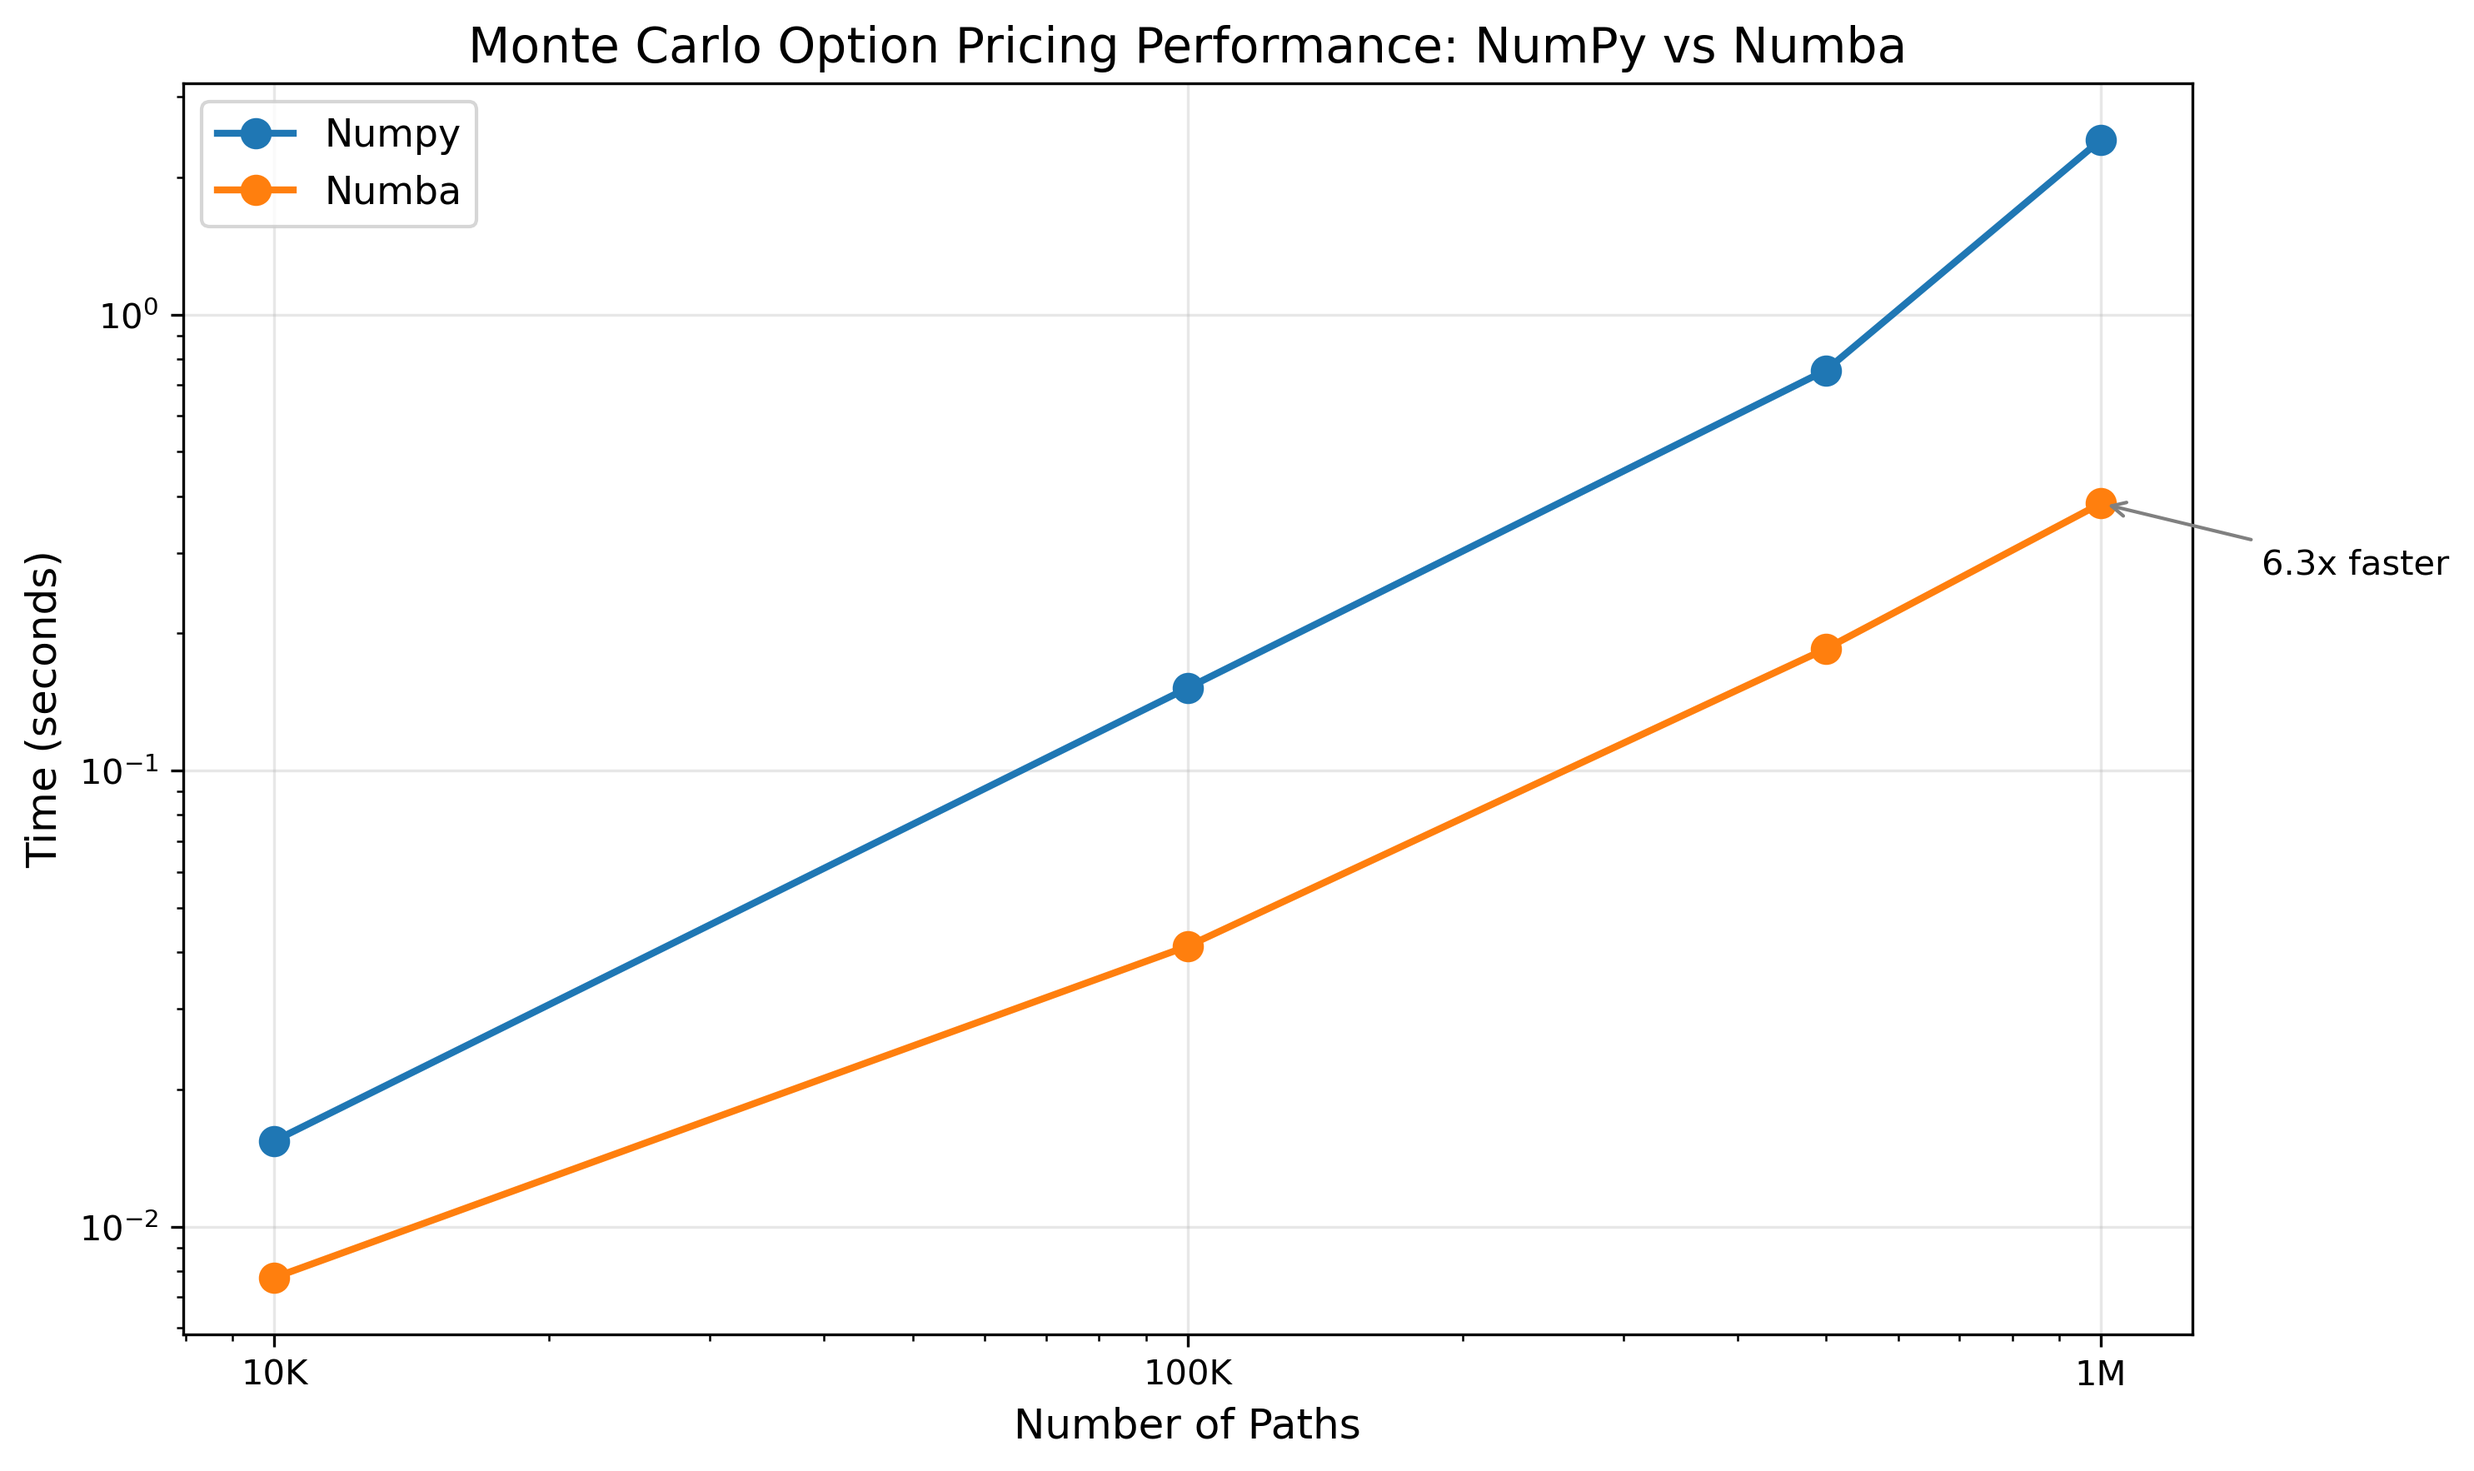
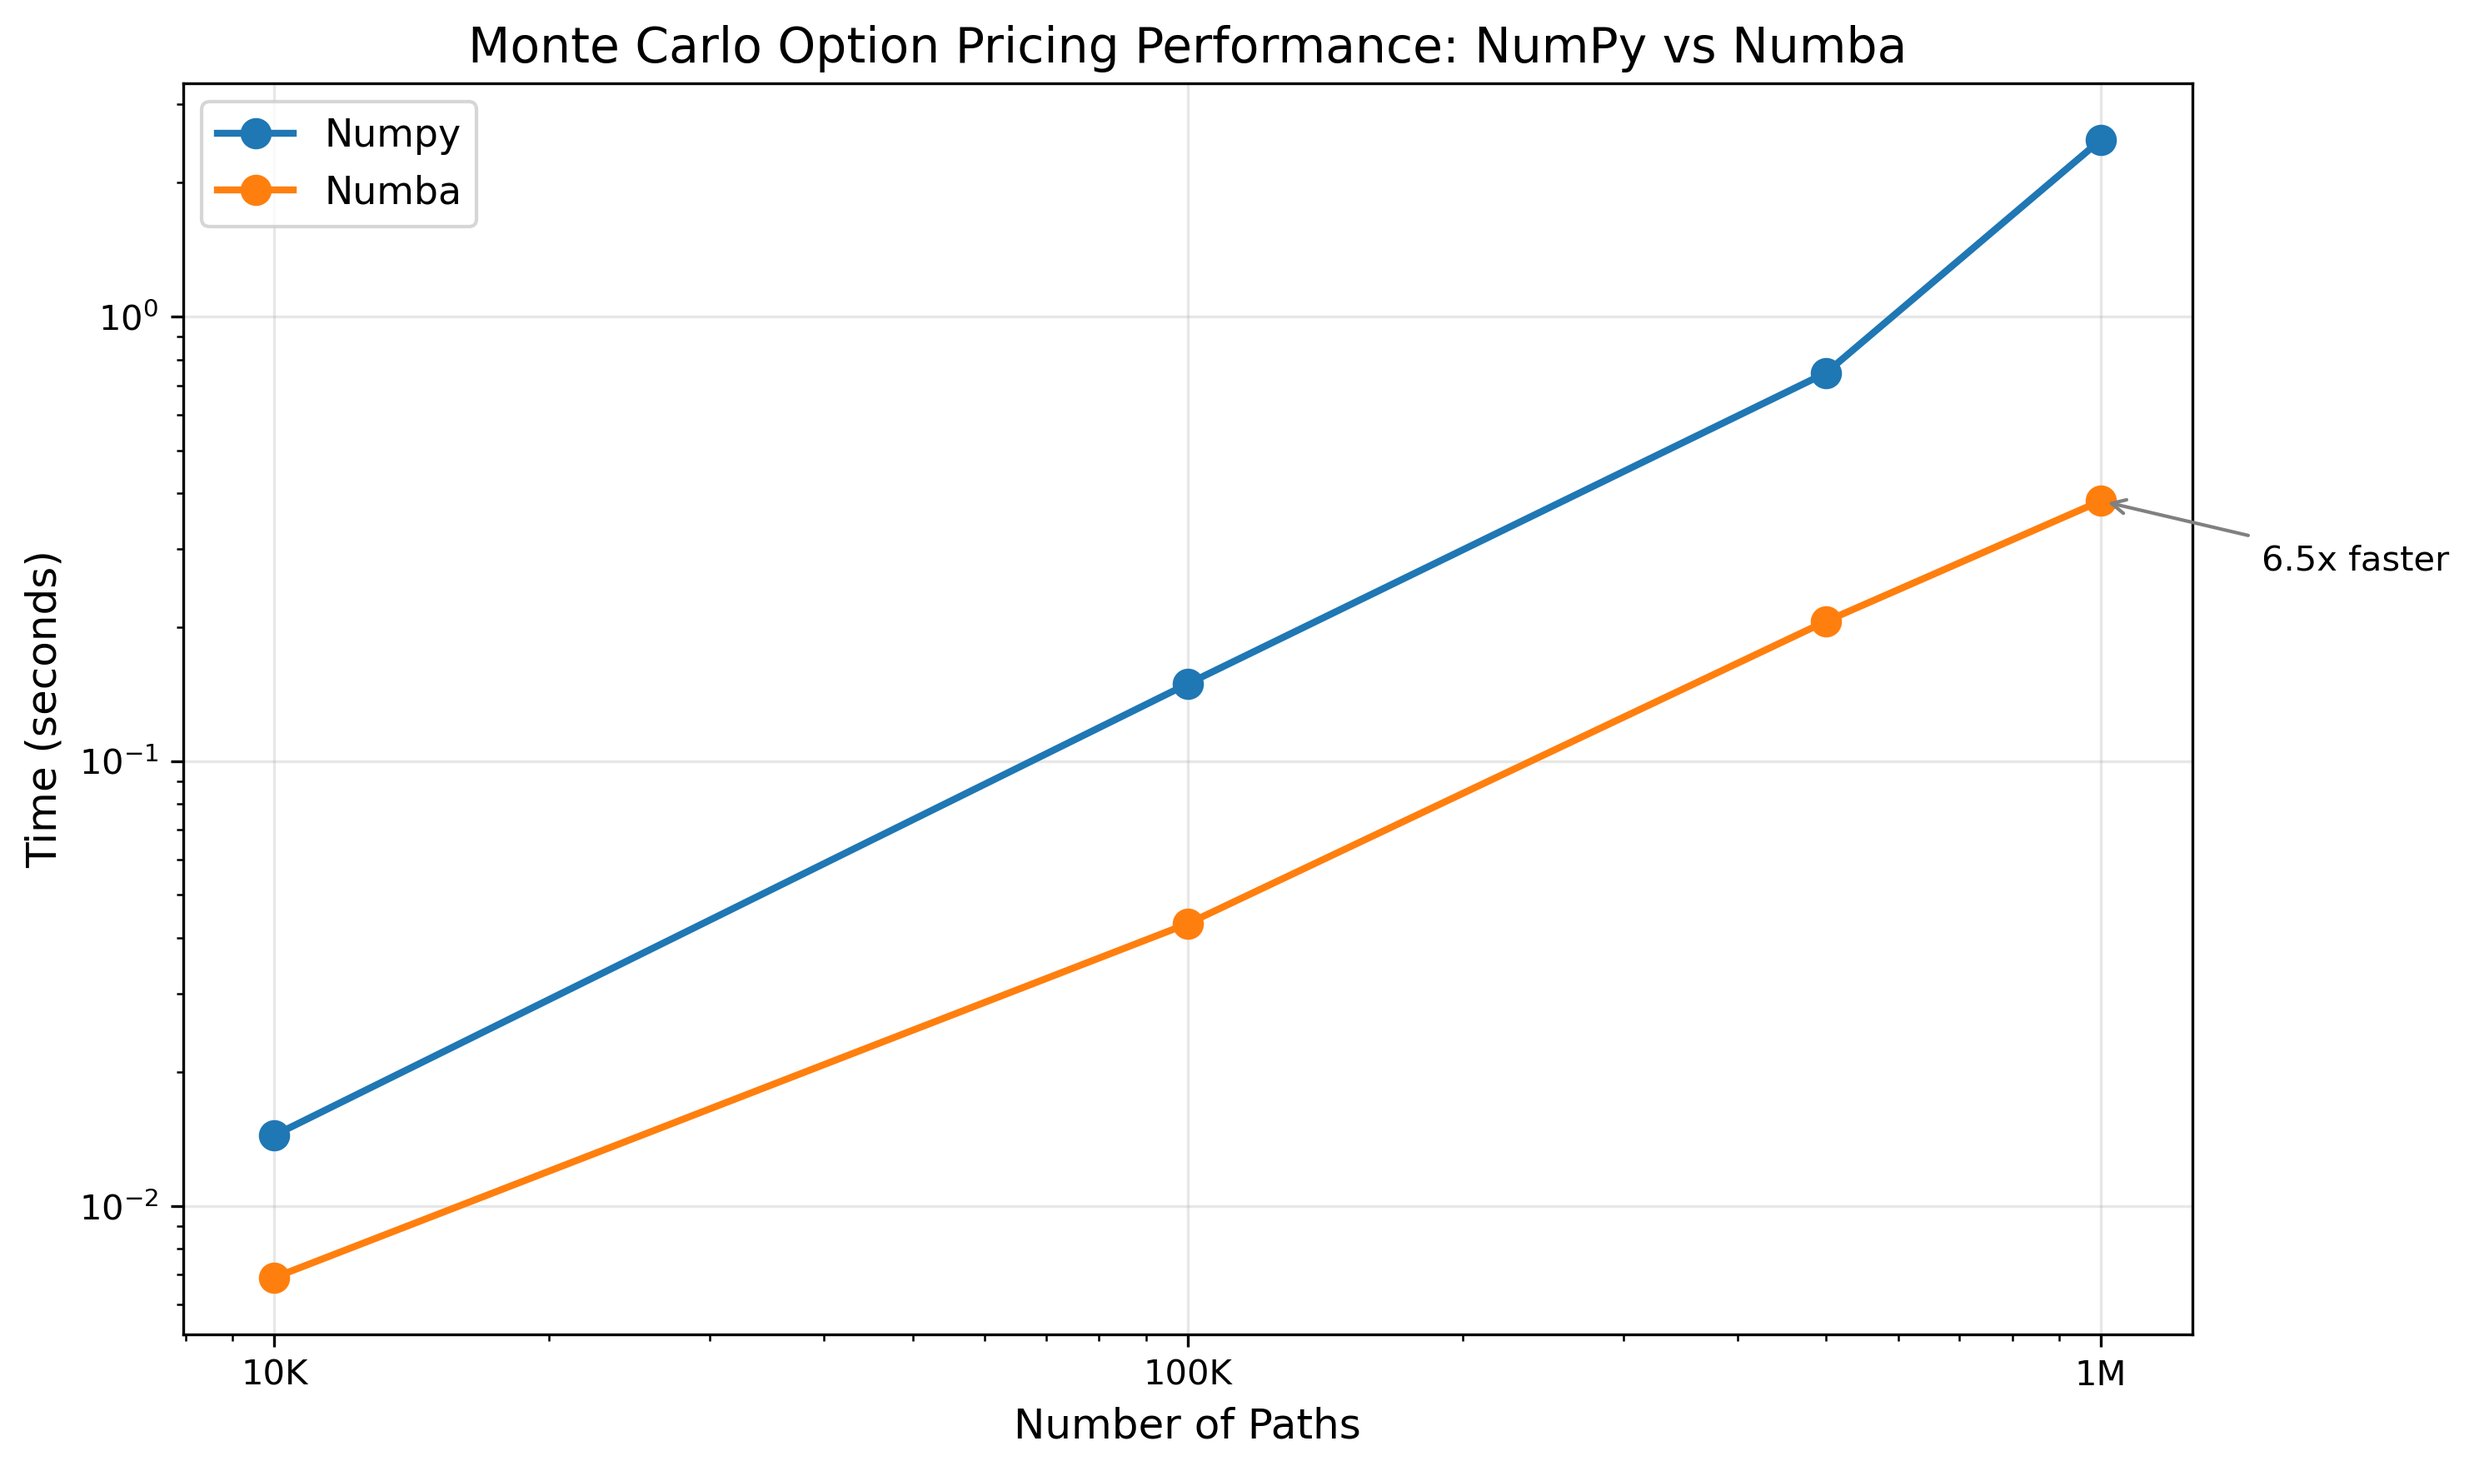
chore: Final v0.3.1 cleanup and improvements
- Update pyproject.toml version to 0.3.1 to match git tags
- Add comprehensive CHANGELOG entries for v0.3.0 and v0.3.1
- Add pytest configuration to fix slow marker warnings
- All tests pass, code quality checks pass
- All CLI scripts work correctly
- Frontier plots show 4 points with dotted lines
- CI workflow uses correct defaults

diff --git a/examples/quickstart.py b/examples/quickstart.py
@@ -16,15 +16,18 @@ from pathlib import Path
 # Add src to path for imports
 sys.path.insert(0, os.path.join(os.path.dirname(__file__), ".."))
 
+
 def run_command(cmd, description):
     """Run a command and print its output."""
     print(f"\n{'='*60}")
     print(f"Running: {description}")
     print(f"Command: {cmd}")
-    print('='*60)
-    
+    print("=" * 60)
+
     try:
-        result = subprocess.run(cmd, shell=True, capture_output=True, text=True, cwd="..")
+        result = subprocess.run(
+            cmd, shell=True, capture_output=True, text=True, cwd=".."
+        )
         print(result.stdout)
         if result.stderr:
             print("STDERR:", result.stderr)
@@ -33,67 +36,68 @@ def run_command(cmd, description):
         print(f"Error running command: {e}")
         return False
 
+
 def test_iv_roundtrip():
     """Test IV solver with round-trip validation."""
     print(f"\n{'='*60}")
     print("Testing Implied Volatility Round-Trip")
-    print('='*60)
-    
+    print("=" * 60)
+
     try:
         from src.quant.pricing import bs_price
         from src.quant.iv import implied_vol_bs
-        
+
         # Test parameters
         S, K, T, r, sigma_true = 100.0, 100.0, 0.5, 0.02, 0.25
-        
+
         # Step 1: Compute BS price
         price = bs_price(S, K, T, r, sigma_true, "call")
         print(f"Original BS price: {price:.6f}")
-        
+
         # Step 2: Solve for implied volatility
         sigma_implied = implied_vol_bs(price, S, K, T, r, "call")
         print(f"Implied volatility: {sigma_implied:.6f}")
         print(f"True volatility:   {sigma_true:.6f}")
         print(f"IV error:          {abs(sigma_implied - sigma_true):.2e}")
-        
+
         # Step 3: Round-trip: recompute price from IV
         price_roundtrip = bs_price(S, K, T, r, sigma_implied, "call")
         print(f"Round-trip price:  {price_roundtrip:.6f}")
         print(f"Price error:       {abs(price_roundtrip - price):.2e}")
-        
+
         return True
     except Exception as e:
         print(f"Error in IV round-trip test: {e}")
         return False
 
+
 def main():
     """Run the quickstart demo."""
     print("🚀 Quant-Option-Pricer Quickstart Demo")
     print("=" * 60)
-    
+
     # Ensure we're in the right directory
     os.chdir(os.path.dirname(__file__))
-    
+
     # 1. Delta Hedging Demo
     success1 = run_command(
         "python scripts/run_hedge.py --S0 100 --K 100 --T 0.25 --r 0.01 --sigma 0.2 --n-paths 5000 --rebalance-every 1 --fee-bps 1.0",
-        "Delta Hedging P&L Simulation"
+        "Delta Hedging P&L Simulation",
     )
-    
+
     # 2. IV Round-Trip Test
     success2 = test_iv_roundtrip()
-    
+
     # 3. IV Surface Generation
     success3 = run_command(
-        "python scripts/calibrate_surface.py",
-        "IV Surface Generation"
+        "python scripts/calibrate_surface.py", "IV Surface Generation"
     )
-    
+
     # Summary
     print(f"\n{'='*60}")
     print("📊 DEMO SUMMARY")
-    print('='*60)
-    
+    print("=" * 60)
+
     artifacts = []
     if success1 and Path("../plots/hedge_pnl.png").exists():
         artifacts.append("✅ plots/hedge_pnl.png")
@@ -101,19 +105,20 @@ def main():
         artifacts.append("✅ plots/iv_surface.png")
     if Path("../benchmarks/benchmarks.csv").exists():
         artifacts.append("✅ benchmarks/benchmarks.csv")
-    
+
     print("Generated artifacts:")
     for artifact in artifacts:
         print(f"  {artifact}")
-    
+
     print(f"\nDelta Hedging: {'✅' if success1 else '❌'}")
     print(f"IV Round-Trip: {'✅' if success2 else '❌'}")
     print(f"IV Surface:    {'✅' if success3 else '❌'}")
-    
+
     if all([success1, success2, success3]):
         print("\n🎉 All demos completed successfully!")
     else:
         print("\n⚠  Some demos failed. Check the output above.")
+
 
 if __name__ == "__main__":
     main()

diff --git a/scripts/run_hedge.py b/scripts/run_hedge.py
@@ -272,7 +272,7 @@ def plot_frontier_scatter(all_results, args, plots_dir):
     plt.scatter(te_values, cost_values, s=100, alpha=0.7, edgecolors="black")
 
     # Add dotted line connecting the points
-    plt.plot(te_values, cost_values, '--', alpha=0.5, color='gray', linewidth=1)
+    plt.plot(te_values, cost_values, "--", alpha=0.5, color="gray", linewidth=1)
 
     # Annotate points with Δt values
     for i, (te, cost, dt) in enumerate(zip(te_values, cost_values, dt_labels)):

diff --git a/CHANGELOG.md b/CHANGELOG.md
@@ -5,6 +5,34 @@ All notable changes to this project will be documented in this file.
 The format is based on [Keep a Changelog](https://keepachangelog.com/en/1.0.0/),
 and this project adheres to [Semantic Versioning](https://semver.org/spec/v2.0.0.html).
 
+## [0.3.1] - 2025-08-16
+
+### Added
+- Dotted line connecting frontier points for better cost-error trade-off visualization
+- Enhanced frontier plot with 4 default rebalance frequencies (1,2,5,10 steps)
+
+### Changed
+- Updated default `--rebalance-every` from "1" to "1,2,5,10" for meaningful frontier plots
+- Updated CI workflow to use new default rebalance frequencies
+- Updated README repro commands and flags table to reflect new defaults
+
+### Fixed
+- Code quality: Black formatting and Flake8 compliance across all files
+- CI artifacts now show proper 4-point frontier plots
+
+## [0.3.0] - 2025-08-16
+
+### Added
+- Hedging frontier analysis with CSV logging (`--out-csv`)
+- Units toggle for TE/Cost denominators (`--units {s0,premium}`)
+- Frontier scatter plot (`plots/hedge_frontier.png`)
+- Metadata stamps on plots with simulation parameters
+- Comprehensive test coverage for all new features
+
+### Changed
+- Enhanced IV surface visualization with dual-panel layout
+- Improved plot aesthetics and readability
+
 ## [0.2.0] - 2025-08-11
 
 ### Added

diff --git a/benchmarks/README_snippet.md b/benchmarks/README_snippet.md
@@ -4,11 +4,11 @@ Monte Carlo option pricing performance comparison.
 
 | Engine | Paths | Seconds |
 |---|---:|---:|
-| numpy | 10,000 | 0.015 |
-| numba | 10,000 | 0.008 |
-| numpy | 100,000 | 0.152 |
-| numba | 100,000 | 0.041 |
-| numpy | 500,000 | 0.755 |
-| numba | 500,000 | 0.185 |
-| numpy | 1,000,000 | 2.418 |
+| numpy | 10,000 | 0.014 |
+| numba | 10,000 | 0.007 |
+| numpy | 100,000 | 0.149 |
+| numba | 100,000 | 0.043 |
+| numpy | 500,000 | 0.747 |
+| numba | 500,000 | 0.206 |
+| numpy | 1,000,000 | 2.498 |
 | numba | 1,000,000 | 0.385 |
